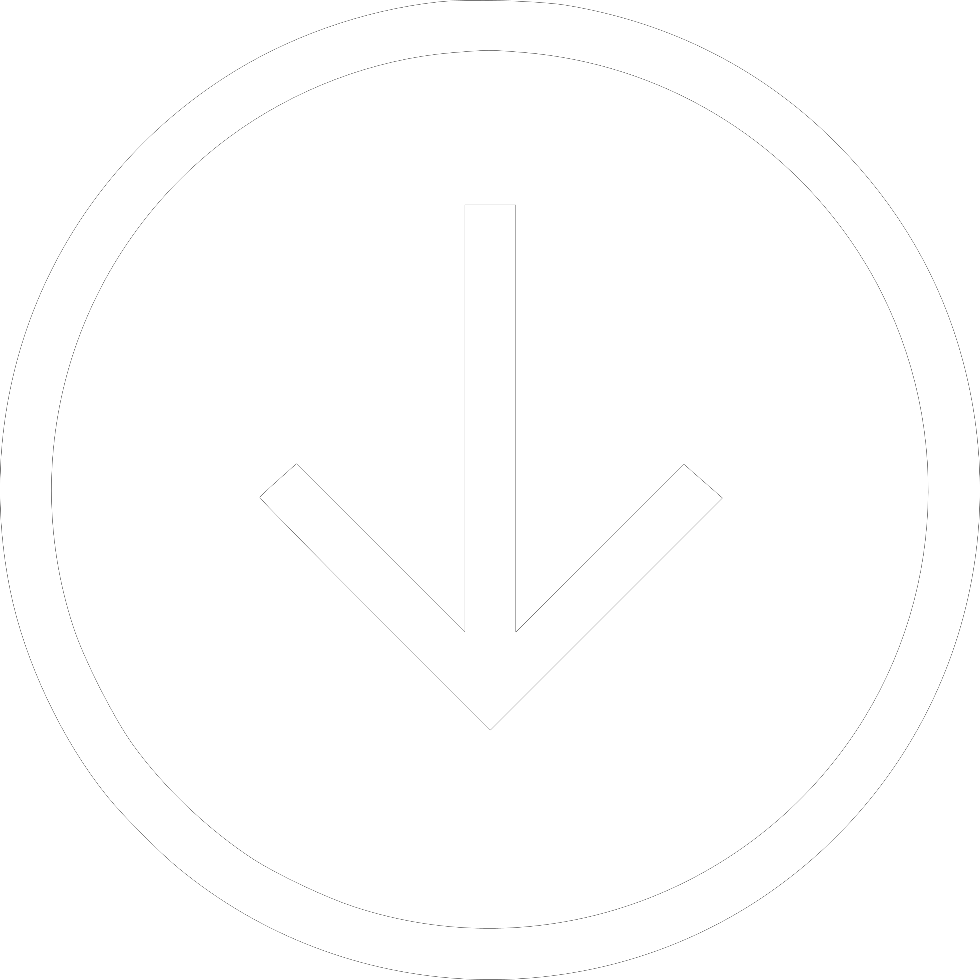
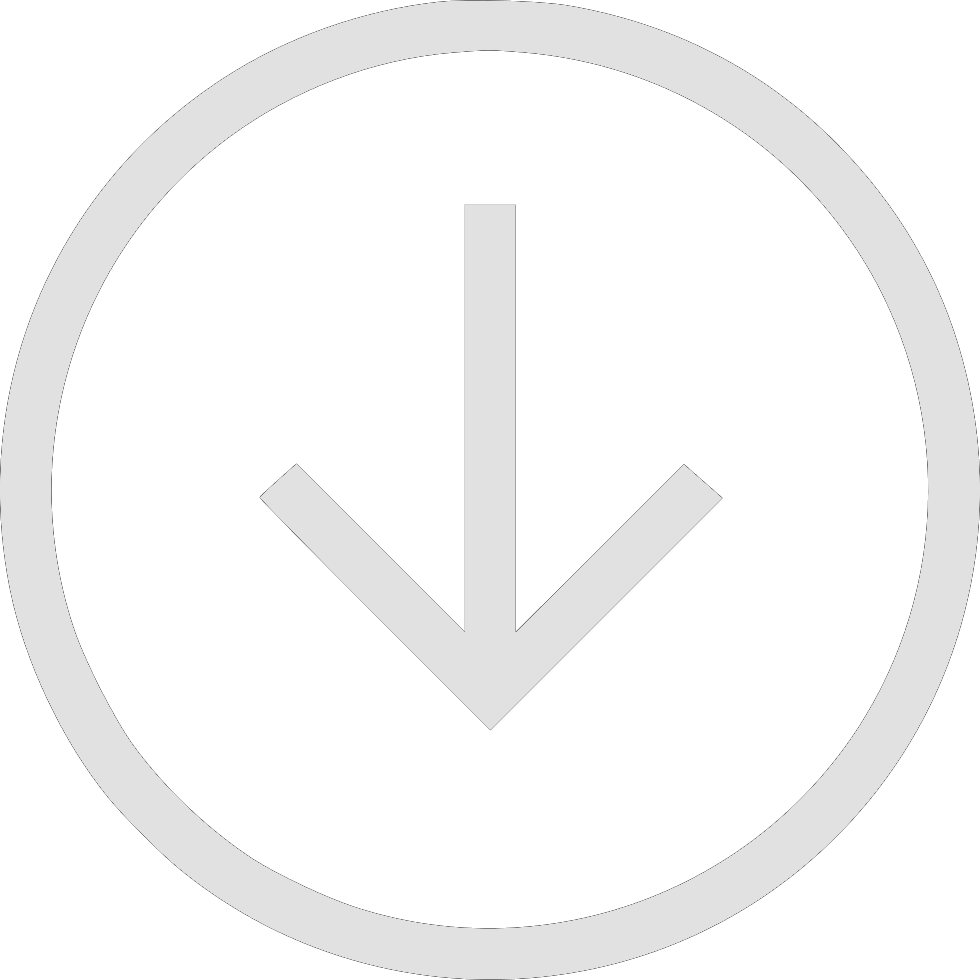
fgf

Changed region(s): [[0.0, 0.0, 1.0, 1.0], [0.2449, 0.1837, 0.7347, 0.7653]]

diff --git a/css/stylesheet.css b/css/stylesheet.css
@@ -37,20 +37,9 @@ body {
 
 /*forskjellig nav farger start */
 .one {
-	background-color:#3866B8;
+	background-color:#006E62;
 }
 
-.two {
-	background-color:#515151;
-}
-
-.three {
-	background-color:#0D0E5B;
-}
-
-.four {
-	background-color:#0F2D0B;
-}
 
 /*forskjellig nav farger ends */
 nav a {
@@ -105,13 +94,13 @@ nav a:hover {
 
 .index h1 {
 	font-size: 3em;
-	color: white;
+	color: #DFE0DF;
 	text-shadow: 3px 3px #313131;
 }
 
 .index h2 {
 	font-size: 6vw;
-	color: white;
+	color: #DFE0DF;
 	text-shadow: 3px 3px #313131;
 }
 
@@ -198,7 +187,7 @@ nav a:hover {
 	border: 1px solid black;
 	padding: 3vh;
 	width: 100%;
-	background-color: #3866B8;
+	background-color: #492F00;
 	color: white;
 }
 

diff --git a/idrettsklubb.php b/idrettsklubb.php
@@ -11,7 +11,7 @@
 	<!-- Header ends -->	
 	
 	<!-- Index starts -->
-	<div class="parallax index">
+	<div class="index">
 	<div class="text">
 	<h1>STICK-FIGHTING OSLO</h1>
 	<h2>Eskrima - Arnis - Kali</h2>
